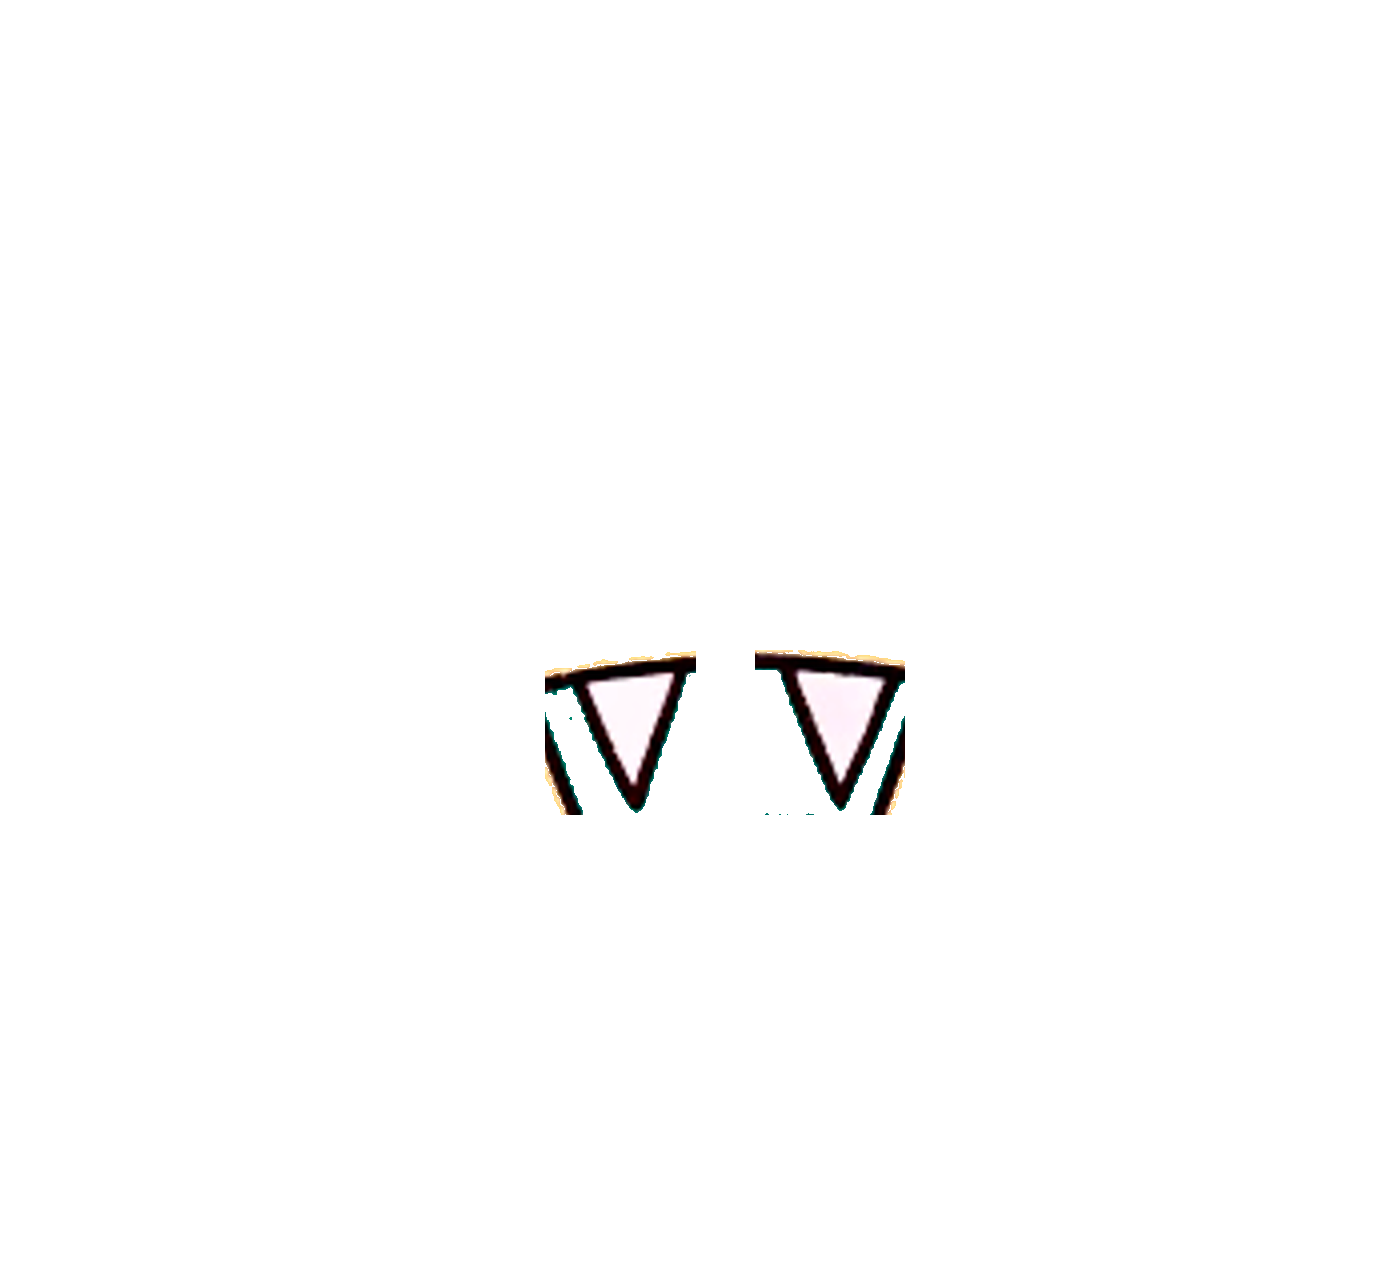
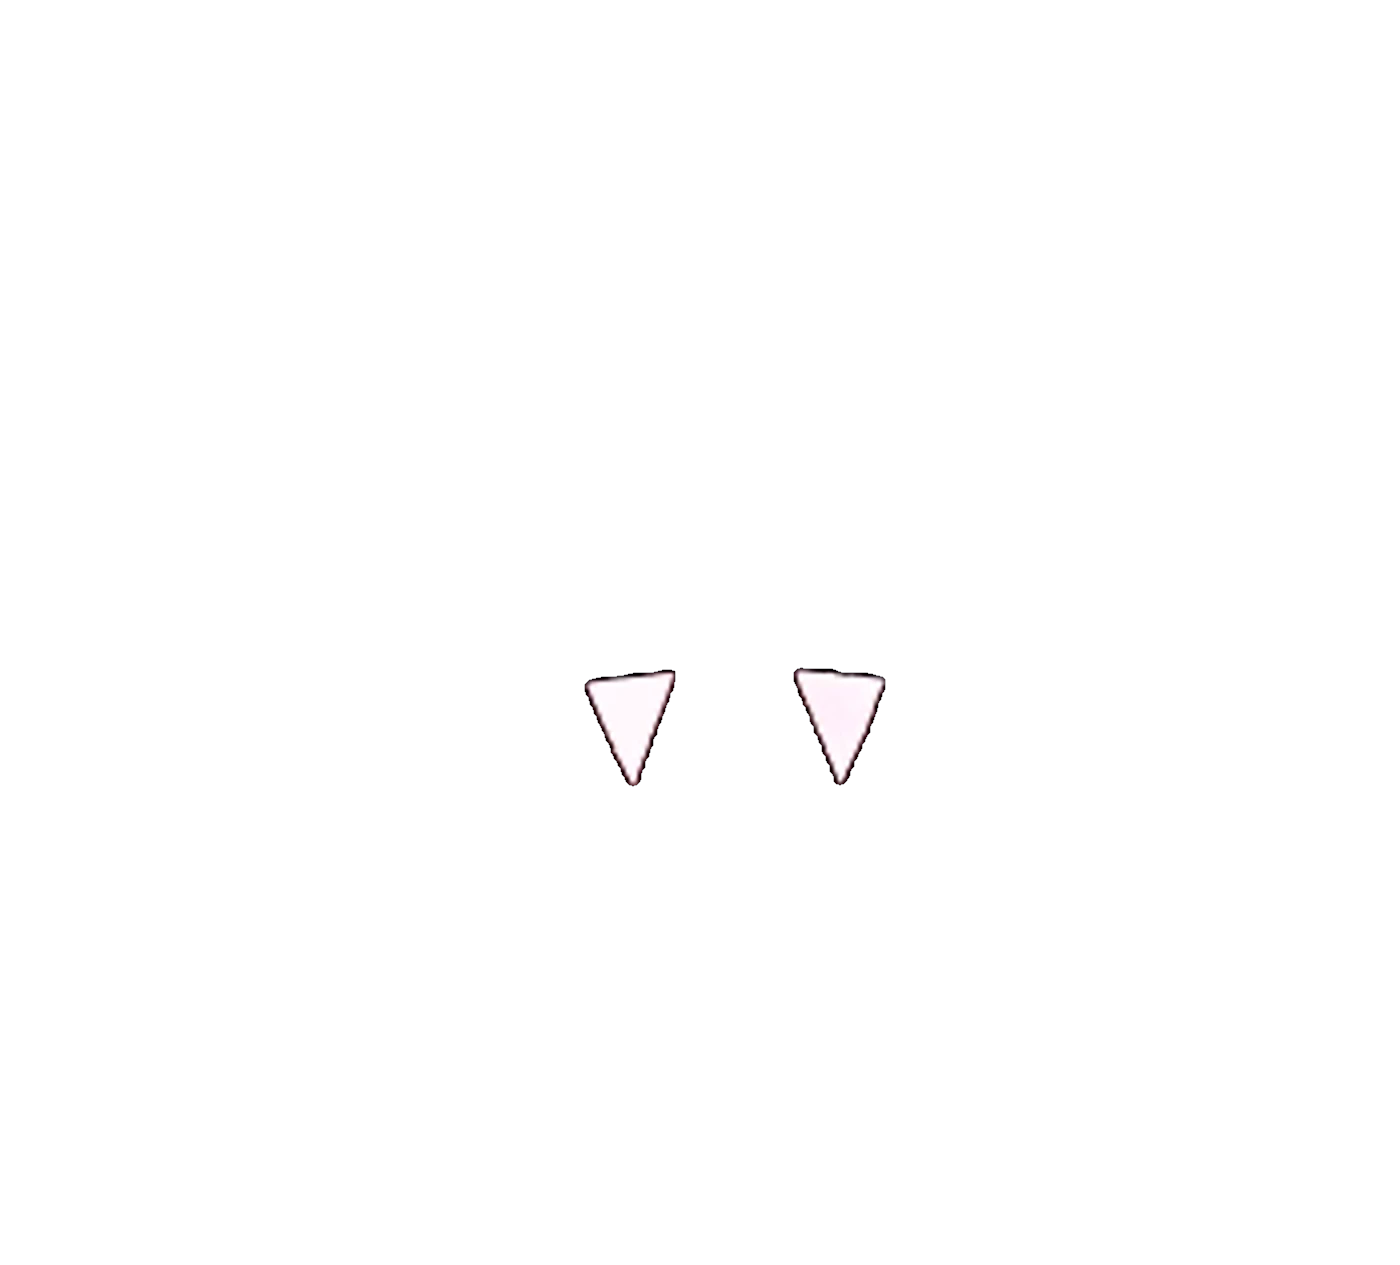
fix: переносы в заголовках форм CTA, плавный скролл к блокам услуг и очистка зубов льва

Changed region(s): [[0.5221, 0.4933, 0.645, 0.6474], [0.3686, 0.4933, 0.4914, 0.6474]]

diff --git a/src/components/ServiceDetailPage.tsx b/src/components/ServiceDetailPage.tsx
@@ -86,7 +86,7 @@ export const ServiceDetailPage: React.FC<ServiceDetailPageProps> = ({
 
       case 'rows':
         return (
-          <section key={index} id={block.id} className="pt-16 md:pt-[120px]">
+          <section key={index} id={block.id} className="pt-16 md:pt-[120px] scroll-mt-8 md:scroll-mt-12">
             <div className="wrap">
               <h2 className="m-0 mb-9 text-[32px] sm:text-[40px] md:text-[48px] leading-[1.1] font-bold tracking-[-0.02em] text-slate">
                 {block.title}
@@ -109,7 +109,7 @@ export const ServiceDetailPage: React.FC<ServiceDetailPageProps> = ({
 
       case 'steps':
         return (
-          <section key={index} id={block.id} className="pt-16 md:pt-[120px]">
+          <section key={index} id={block.id} className="pt-16 md:pt-[120px] scroll-mt-8 md:scroll-mt-12">
             <div className="wrap">
               <h2 className="m-0 mb-10 text-[32px] sm:text-[40px] md:text-[48px] leading-[1.1] font-bold tracking-[-0.02em] text-slate">
                 {block.title}
@@ -302,7 +302,7 @@ export const ServiceDetailPage: React.FC<ServiceDetailPageProps> = ({
 
       case 'flow':
         return (
-          <section key={index} id={block.id} className="band mt-16 md:mt-[120px]">
+          <section key={index} id={block.id} className="band mt-16 md:mt-[120px] scroll-mt-8 md:scroll-mt-12">
             <div className="wrap">
               <h2 className="m-0 mb-10 text-[32px] sm:text-[40px] md:text-[48px] leading-[1.1] font-bold tracking-[-0.02em] text-paper">
                 {block.title}
@@ -354,7 +354,7 @@ export const ServiceDetailPage: React.FC<ServiceDetailPageProps> = ({
 
       case 'formats':
         return (
-          <section key={index} id={block.id} className="pt-16 md:pt-[120px]">
+          <section key={index} id={block.id} className="pt-16 md:pt-[120px] scroll-mt-8 md:scroll-mt-12">
             <div className="wrap">
               <h2 className="m-0 mb-9 text-[32px] sm:text-[40px] md:text-[48px] leading-[1.1] font-bold tracking-[-0.02em] text-slate">
                 {block.title}
@@ -515,12 +515,18 @@ export const ServiceDetailPage: React.FC<ServiceDetailPageProps> = ({
                   </svg>
                   {currentService.hero.buttonText}
                 </a>
-                <a
-                  className="lnk text-[17px] font-semibold text-slate"
-                  href={`#${currentService.hero.anchor.target}`}
+                <button
+                  type="button"
+                  onClick={() => {
+                    const el = document.getElementById(currentService.hero.anchor.target);
+                    if (el) {
+                      el.scrollIntoView({ behavior: 'smooth' });
+                    }
+                  }}
+                  className="lnk text-[17px] font-semibold text-slate bg-transparent border-0 p-0 cursor-pointer text-left"
                 >
                   {currentService.hero.anchor.text}
-                </a>
+                </button>
               </div>
             </div>
 
@@ -555,8 +561,9 @@ export const ServiceDetailPage: React.FC<ServiceDetailPageProps> = ({
           <div className="cta g2 relative z-10 bg-orange rounded-plate p-6 sm:p-10 md:p-14">
             <div>
               <h2 className="h2 m-0 text-[32px] sm:text-[40px] md:text-[48px] leading-[1.1] font-bold tracking-[-0.02em] text-white">
-                {currentService.cta.title}{' '}
-                <span className="mark">{currentService.cta.titleMark}</span>
+                {currentService.cta.title}
+                <br />
+                <span className="mark inline-block mt-1">{currentService.cta.titleMark}</span>
               </h2>
               <p className="mt-5 mb-0 text-[16px] sm:text-[18px] leading-[1.5] text-white max-w-[460px]">
                 {currentService.cta.text}
@@ -667,7 +674,7 @@ export const ServiceDetailPage: React.FC<ServiceDetailPageProps> = ({
 
           {/* LION TEETH OVERLAY (Layer 20, hooks over the top edge of orange card) */}
           <img
-            src="/assets/lion-teeth.webp?v=4"
+            src="/assets/lion-teeth.webp?v=5"
             alt=""
             aria-hidden="true"
             className="cta-lion-teeth select-none"

diff --git a/src/components/CaseDetailPage.tsx b/src/components/CaseDetailPage.tsx
@@ -573,7 +573,9 @@ export const CaseDetailPage: React.FC<CaseDetailPageProps> = ({
 
             <div>
               <h2 className="h2 m-0 text-[32px] sm:text-[40px] md:text-[48px] leading-[1.1] font-bold tracking-[-0.02em] text-white">
-                Давайте работать <span className="mark">вместе</span>
+                Давайте работать
+                <br />
+                <span className="mark inline-block mt-1">вместе</span>
               </h2>
               <p className="mt-5 mb-0 text-[16px] sm:text-[18px] leading-[1.5] text-white max-w-[460px]">
                 Пришлите ссылку на канал и опишите задачу своими словами. За 30 минут созвона забрифуемся, и я соберу стратегию под ваш проект.

diff --git a/src/components/ContactSection.tsx b/src/components/ContactSection.tsx
@@ -37,7 +37,9 @@ export const ContactSection: React.FC = () => {
           {/* Left Column: Heading, Subtitle & White Button */}
           <div className="md:col-span-6 relative z-10">
             <h2 className="m-0 text-[32px] sm:text-[40px] md:text-[48px] leading-[1.1] font-bold tracking-[-0.02em] text-white">
-              Давайте работать <span className="mark">вместе</span>
+              Давайте работать
+              <br />
+              <span className="mark inline-block mt-1">вместе</span>
             </h2>
 
             <p className="mt-5 mb-0 text-[16px] sm:text-[18px] leading-[1.5] text-white max-w-[460px]">
